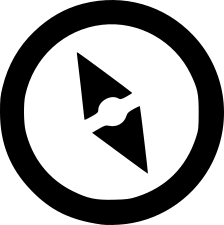
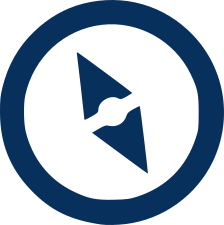
about to test a massive ai code :)

diff --git a/lib/home_screen.dart b/lib/home_screen.dart
@@ -11,7 +11,7 @@ class HomeScreen extends StatelessWidget {
     return Scaffold(
       appBar: AppBar(
         title: const Text("Home"),
-        backgroundColor: const Color.fromARGB(255, 49, 73, 143),
+        //backgroundColor: const Color.fromARGB(255, 49, 73, 143),
       ),
       drawer: const Drawer(),
       body: SafeArea(
@@ -24,37 +24,61 @@ class HomeScreen extends StatelessWidget {
                 
                 // 1. Proportional Top Banner Container
                 Container(
-                  width: double.infinity,
-                  height: screenHeight * 0.3, // Takes exactly 30% of any screen height
-                  alignment: Alignment.center,
-                  decoration: BoxDecoration(
-                    image: const DecorationImage(
-                      image: AssetImage("assets/images/futalog.jpg"),
-                      fit: BoxFit.cover, 
-                    ),
-                    borderRadius: BorderRadius.circular(10),
-                    boxShadow: const [
-                      BoxShadow(
-                        color: Colors.black12,
-                        blurRadius: 10,
-                        offset: Offset(0, 4),
-                      )
-                    ],
-                  ),
-                  child: const Padding(
-                    padding: EdgeInsets.all(16.0),
-                    child: Text(
-                      "Your Future. Our Mission",
-                      style: TextStyle(
-                        color: Colors.white, 
-                        fontWeight: FontWeight.bold,
-                        fontSize: 20,
-                      ),
-                      textAlign: TextAlign.center,
-                    ),
-                  ),
-                ),
-                
+  width: double.infinity,
+  height: screenHeight * 0.3, // Takes exactly 30% of any screen height
+  alignment: Alignment.center,
+  decoration: BoxDecoration(
+    // 1. Give the container a base color (the color the image will blend into)
+    color: const Color(0xFF1E1E1E), 
+    borderRadius: BorderRadius.circular(10),
+    boxShadow: const [
+      BoxShadow(
+        color: Colors.black12,
+        blurRadius: 10,
+        offset: Offset(0, 4),
+      )
+    ],
+  ),
+  // 2. Use ShaderMask to apply the blending gradient directly to the image child
+  child: ShaderMask(
+    shaderCallback: (rect) {
+      return const LinearGradient(
+        begin: Alignment.topCenter,
+        end: Alignment.bottomCenter,
+        // The image stays fully visible at the top, and fades to black at the bottom
+        colors: [Colors.black, Colors.transparent],
+        stops: [0.1, 1.0], // Controls where the fade starts and ends
+      ).createShader(rect);
+    },
+    blendMode: BlendMode.dstIn, // Combines the gradient mask with the image
+    child: Container(
+      width: double.infinity,
+      height: double.infinity,
+      decoration: const BoxDecoration(
+        image: DecorationImage(
+          image: AssetImage("assets/images/futalog.jpg"),
+          fit: BoxFit.cover,
+        ),
+      ),
+      // 3. Place your text inside the container so it sits over the faded area
+      child: const Padding(
+        padding: EdgeInsets.all(16.0),
+        child: Align(
+          alignment: Alignment.center,
+          child: Text(
+            "Your Future. Our Mission",
+            style: TextStyle(
+              color: Colors.white, 
+              fontWeight: FontWeight.bold,
+              fontSize: 20,
+            ),
+            textAlign: TextAlign.center,
+          ),
+        ),
+      ),
+    ),
+  ),
+), SizedBox(height: 20,),      
                 // Section Header
                 const Padding(
                   padding: EdgeInsets.symmetric(vertical: 20),

diff --git a/lib/main_wrapper.dart b/lib/main_wrapper.dart
@@ -39,26 +39,26 @@ class _MainWrapperState extends State<MainWrapper> {
         },
         // Match the clean, simple style from your wireframes
         backgroundColor: Colors.white,
-        indicatorColor: const Color(0xFFE040FB).withOpacity(0.2), // Light purple highlight circle
+        indicatorColor: const Color.fromARGB(255, 49, 73, 143).withOpacity(0.2), // Light purple highlight circle
         destinations: const [
           NavigationDestination(
             icon: Icon(Icons.home_outlined),
-            selectedIcon: Icon(Icons.home, color: Color(0xFF4A148C)), // FUTA Purple when active
+            selectedIcon: Icon(Icons.home, color: const Color.fromARGB(255, 49, 73, 143)), // FUTA Purple when active
             label: 'Home',
           ),
           NavigationDestination(
             icon: Icon(Icons.track_changes),
-            selectedIcon: Icon(Icons.track_changes, color: Color(0xFF4A148C)),
+            selectedIcon: Icon(Icons.track_changes, color: const Color.fromARGB(255, 49, 73, 143)),
             label: 'What We Do',
           ),
           NavigationDestination(
             icon: Icon(Icons.info),
             label: "About Us",
-            selectedIcon: Icon(Icons.info,color: Color(0xFF4A148C),),
+            selectedIcon: Icon(Icons.info,color: const Color.fromARGB(255, 49, 73, 143),),
             ),
           NavigationDestination(
             icon: Icon(Icons.contact_support),
-            selectedIcon: Icon(Icons.contact_support, color: Color(0xFF4A148C)),
+            selectedIcon: Icon(Icons.contact_support, color: const Color.fromARGB(255, 49, 73, 143)),
             label: 'Contact Us',
           ),
         ],
